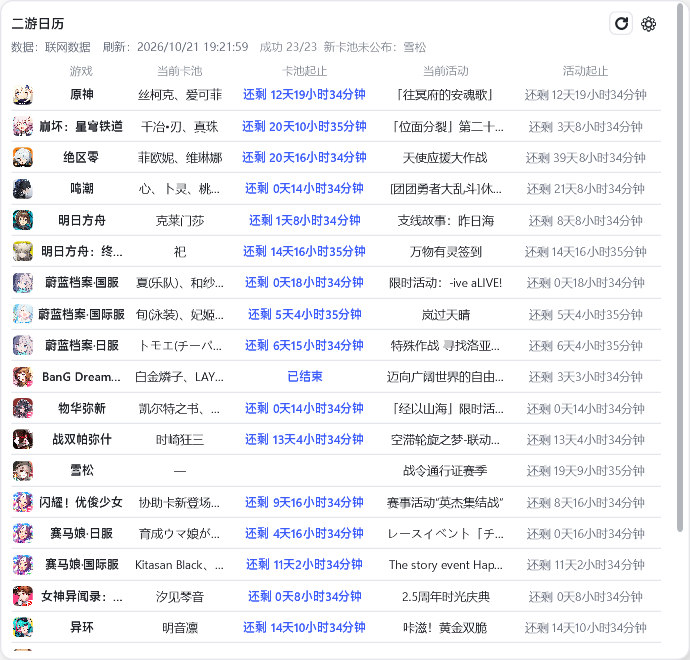
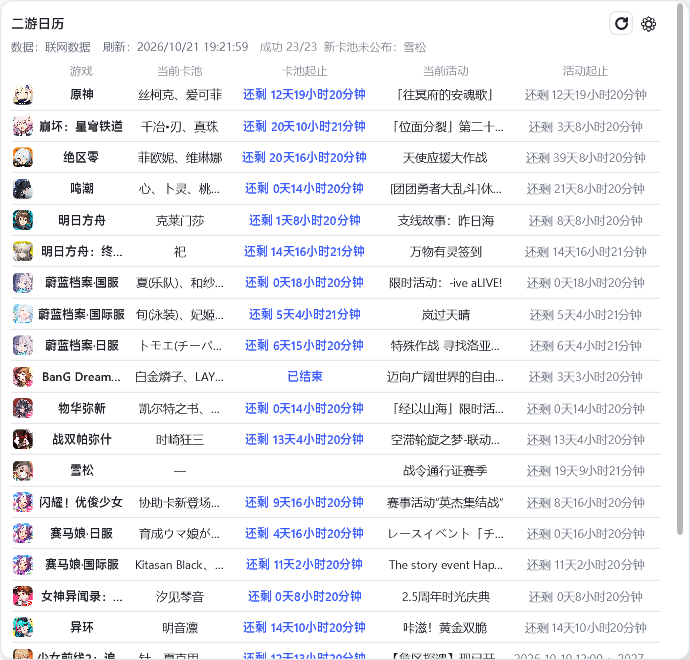
style: v0.1.22 主面板留白与深色标题栏证据
- 主面板显式内边距，避免 ScrollViewer 模板吃掉 Padding
- capture-ui 增加 PrintWindow 真窗口截图；新增深色标题栏截图
- 更新主面板/设置深色截图；版本 0.1.22

验证：dotnet build 0 警告 0 错误；npm test 34/34；npm run check 通过

diff --git a/src/GachaCalendar/Views/FlyoutWindow.xaml b/src/GachaCalendar/Views/FlyoutWindow.xaml
@@ -130,8 +130,8 @@
 		</Border.Effect>
 
 		<Grid>
-			<ScrollViewer x:Name="TableScroll" Style="{StaticResource DshScrollViewer}" VerticalScrollBarVisibility="Auto" HorizontalScrollBarVisibility="Disabled" Padding="10,10,10,8">
-			<StackPanel>
+			<ScrollViewer x:Name="TableScroll" Style="{StaticResource DshScrollViewer}" VerticalScrollBarVisibility="Auto" HorizontalScrollBarVisibility="Disabled" Padding="0">
+				<StackPanel Margin="10,10,10,8">
 				<!-- 标题 + 操作（DSH 面板：13px semibold，右侧小按钮） -->
 				<Grid Margin="0,0,0,4">
 					<Grid.ColumnDefinitions>

diff --git a/src/GachaCalendar/App.xaml.cs b/src/GachaCalendar/App.xaml.cs
@@ -1,4 +1,5 @@
 using System.IO;
+using System.Runtime.InteropServices;
 using System.Windows;
 using System.Windows.Interop;
 using System.Windows.Media;
@@ -114,8 +115,11 @@ public partial class App : System.Windows.Application
 				Directory.CreateDirectory(outDir);
 				if (_flyout != null) CaptureWindow(_flyout, outDir, "flyout");
 				if (_dock != null) CaptureWindow(_dock, outDir, "dock");
-				if (_settingsWindow is { IsVisible: true }) CaptureWindow(_settingsWindow, outDir, "settings");
-			}
+				if (_settingsWindow is { IsVisible: true })
+				{
+					CaptureWindow(_settingsWindow, outDir, "settings");
+					CapturePrint(_settingsWindow, outDir, "settings-print");
+				}			}
 			catch (Exception ex)
 			{
 				Log.Error("UI 截图失败", ex);
@@ -149,6 +153,45 @@ public partial class App : System.Windows.Application
 			var suffix = dpi == 96 ? "100" : "150";
 			using var stream = File.Create(Path.Combine(outDir, $"{prefix}-{suffix}.png"));
 			encoder.Save(stream);
+		}
+	}
+
+	[DllImport("user32.dll")]
+	private static extern bool PrintWindow(IntPtr hwnd, IntPtr hdc, uint flags);
+
+	[DllImport("user32.dll")]
+	private static extern bool GetWindowRect(IntPtr hwnd, out Rect rect);
+
+	[DllImport("user32.dll")]
+	private static extern uint GetDpiForWindow(IntPtr hwnd);
+
+	[StructLayout(LayoutKind.Sequential)]
+	private struct Rect
+	{
+		public int Left, Top, Right, Bottom;
+	}
+
+	/// <summary>带非客户区的真实窗口截图（用于验证深色标题栏）。</summary>
+	private static void CapturePrint(Window window, string outDir, string prefix)
+	{
+		try
+		{
+			var hwnd = new WindowInteropHelper(window).Handle;
+			if (hwnd == IntPtr.Zero || !GetWindowRect(hwnd, out var rect)) return;
+			var dpi = GetDpiForWindow(hwnd) / 96.0;
+			var width = (int)Math.Round((rect.Right - rect.Left) * dpi);
+			var height = (int)Math.Round((rect.Bottom - rect.Top) * dpi);
+			if (width < 1 || height < 1) return;
+			using var bitmap = new System.Drawing.Bitmap(width, height);
+			using var graphics = System.Drawing.Graphics.FromImage(bitmap);
+			var hdc = graphics.GetHdc();
+			try { PrintWindow(hwnd, hdc, 2); }
+			finally { graphics.ReleaseHdc(hdc); }
+			bitmap.Save(Path.Combine(outDir, $"{prefix}.png"), System.Drawing.Imaging.ImageFormat.Png);
+		}
+		catch (Exception ex)
+		{
+			Log.Warn("PrintWindow 截图失败：" + ex.Message);
 		}
 	}
 

diff --git a/docs/04-路线图.md b/docs/04-路线图.md
@@ -222,7 +222,14 @@ Fluent/DSH 风格外观已列入 [BACKLOG.md](../BACKLOG.md)。
 - [x] newPanel+设置页 2×2 视觉回归图
 - [ ] 主面板字重/行距继续贴近 DSH
 
-## v0.1.22 · 任务栏体验打磨
+## v0.1.22 · 主面板留白与标题栏证据（2026-10-21）
+
+- [x] 主面板显式内边距 10/10/10/8
+- [x] PrintWindow 真窗口截图，验证深色标题栏
+- [x] 更新主面板/设置深色截图
+- [ ] 主面板字重/行距继续贴近 DSH
+
+## v0.1.23 · 任务栏体验打磨
 
 - [ ] 多显示器：主屏 / 每屏一份（设置项）
 - [ ] 任务栏自动隐藏时跟随（贴屏幕边缘而非消失）
@@ -232,7 +239,7 @@ Fluent/DSH 风格外观已列入 [BACKLOG.md](../BACKLOG.md)。
 - [ ] 点击外部关闭面板、Esc、快捷键（可选 Win+Alt+G）
 - [ ] 电源/锁屏/睡眠恢复后的任务栏重定位
 
-## v0.1.23 · 分发工程化
+## v0.1.24 · 分发工程化
 
 - [ ] `publish` 脚本：自包含 single-file zip + 框架依赖 zip
 - [ ] 安装包（Inno Setup 或 MSIX）：开始菜单、卸载清理自启项
@@ -241,7 +248,7 @@ Fluent/DSH 风格外观已列入 [BACKLOG.md](../BACKLOG.md)。
 - [ ] 性能预算：空闲内存 ≤ 120MB、CPU ≤ 0.1%、启动 ≤ 2s
 - [ ] 首次运行引导：数据从哪来、如何刷新、如何关掉原生小组件避免重叠
 
-## v0.1.24 · 商店与打磨
+## v0.1.25 · 商店与打磨
 
 - [ ] 代码签名（SmartScreen）
 - [ ] Microsoft Store / MSIX 上架评估

diff --git a/README.md b/README.md
@@ -50,7 +50,7 @@
 | 深浅色 token / 视觉验收清单 | ✅ v0.1.10（[验收清单](docs/11-DSH面板复刻验收.md)） |
 | 实验性 newPanel（日程视图） | 🚧 v0.1.12 基础版（设置页可开启） |
 | 颜色取色器 / DPI 截图 / 内置 Node 打包 | ✅ v0.1.13–0.1.14（`tools/publish.ps1`） |
-| 视觉打磨 / 新控件 / 小屏设置窗口 | ✅ v0.1.16–0.1.21（含深色视觉回归图） |
+| 视觉打磨 / 新控件 / 小屏设置窗口 | ✅ v0.1.16–0.1.22（含深色/标题栏视觉回归） |
 | Fluent / DSH 交互细节与视觉回归 | 📋 待办（[#1](https://github.com/EastMG/gacha-calendar/issues/1) / [BACKLOG.md](BACKLOG.md)） |
 | 多显示器、轮播、安装包 | 🚧 v0.1.10+（见[路线图](docs/04-路线图.md)） |
 

diff --git a/CHANGELOG.md b/CHANGELOG.md
@@ -1,5 +1,12 @@
 # CHANGELOG
 
+## v0.1.22 · 2026-10-21
+
+- 主面板内容改为显式 10/10/10/8 内边距，避免自定义 ScrollViewer 模板吃掉 Padding
+- `--capture-ui` 新增 PrintWindow 真窗口截图，验证深色系统标题栏
+- 新增 `settings-dark-titlebar.png`；更新主面板/设置深色截图
+- 版本 0.1.22
+
 ## v0.1.21 · 2026-10-21
 
 - 设置页：17px 自定义 CheckBox、细滚动条；载入中显示「正在读取设置…」

diff --git a/docs/11-DSH面板复刻验收.md b/docs/11-DSH面板复刻验收.md
@@ -78,6 +78,7 @@ npm run check
 - CI：`build-windows` / `identity` / `engine` / `tools` 全绿。
 - `docs/images/flyout.png`、`flyout-dark.png`、`settings.png`（100% 渲染）/`settings-150.png`；
 - 深色设置页：`settings-dark-100.png` / `settings-dark-150.png`；
+- 深色标题栏真窗口：`settings-dark-titlebar.png`（PrintWindow）；
 - 2×2 视觉回归：`visual-regression.png`（newPanel/设置 × 浅/深）。
 
 ## 7. 未纳入 / 后续
